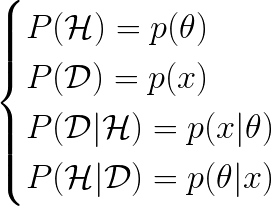
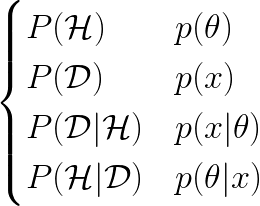
more on beta, and uniform

diff --git a/docs/beta.md b/docs/beta.md
@@ -16,6 +16,8 @@
     * Suppose last season a player had 80 hits and 220 outs for a total of 300 at-bats
     * The batting average of this player is a [beta distribution](http://varianceexplained.org/statistics/beta_distribution_and_baseball/) *beta(80,220)*
 
+### The Beta Distribution and its measures
+
 * **Beta Distribution** - beta(a, b) 2-parameter distribution with range [0,1]
   > ![Beta distribution](./img/56786ea0-b970-49d0-9a4a-b5fc2c891c13.png)<!--
     {f(\theta) = \frac{(a+b-1)!}{(a-1)!(b-1)!}\theta^{a-1}(1-\theta)^{b-1}}
@@ -25,14 +27,49 @@
   > ![normalizing constant](./img/c5d1c8a8-d6a1-4629-ac87-0321d01de1f6.png)<!--
     {c = \frac{(a+b-1)!}{(a-1)!(b-1)!}, c\theta^{a-1}(1-\theta)^{b-1}}
     -->
-* Beta mean
-  > ![beta mean](./img/cc95317e-c7b9-4418-8e3b-63d6d0d53000.png)<!--
-    {E(X) = \mu = \frac{\alpha}{\alpha + \beta}}
+* Beta Mean: [Expected Value](http://pj.freefaculty.org/guides/stat/Distributions/DistributionWriteups/Beta/Beta.pdf)
+  > ![beta mean](./img/5d6b37fc-580a-4a9f-a792-efdef29d3811.png)<!--
+    E(\theta) = \mu = \frac{a}{a+b}
     -->
+* Variance
+  > ![beta variance](./img/e02cd9d5-1f08-47fa-aaf7-df630154d91f.png)<!--
+    \sigma^2  = \frac{a\cdot b}{(a+b)^2(a + b + 1)}
+    -->
+* Mode: aka what is peak of the curve?
+  > ![beta mode](./img/f2b2fc98-70aa-45dc-8932-4481bb377b43.png)<!--
+    \gamma  = \frac{a-1}{a+b-2}
+    -->
+* Solve for <em>&alpha;</em>
+  > ![beta alpha](./img/592ddcea-1109-49a2-9f16-69c482c3a74e.png)<!--
+    {\alpha = \left(\frac{1-\mu}{\sigma^2} - \frac{1}{\mu} \right) \mu^2}
+    -->
+* Solve for <em>&beta;</em>
+  > ![beta beta](./img/784e6d37-cf87-45bf-a187-2d859b7041ac.png)<!--
+    {\beta = \alpha\left( \frac{1}{\mu} - 1 \right)}
+    -->
+
+#### A note about standard deviation of beta
+
+* Recall the standard deviation of a uniform distribution
+  > ![uniform standard deviation](./img/589ca684-1b99-4c60-a24f-97747494db3e.png)<!--
+    \sigma = \frac{b-a}{\sqrt{12}}
+    -->
+* In a beta distribiton the hypothesis <em>&theta;</em> is between 0 and 1. Therefore, a uniform prior is:
+  > ![uniform prior standard deviation](./img/589ca684-1b99-4c60-a24f-97747494db3e.png)<!--
+    \sigma = \frac{1 - 0}{\sqrt{12}} = 0.28868
+    -->
+* Therefore, (while possible) a beta distribution should not have a standard deviation greater than 0.28868 because a uniform prior has no beliefs
+
+### Example: coin flips
+
 * What is the probability of getting 8 heads and 4 tails from a coin flip?
   * n = 8 + 4 = 12
   * This is a binomial distribution
-  > ![Binomial Distribution](./img/ee2f4eba-449d-4790-bdbf-9d53da126aa6.png)
+  > ![Binomial Distribution](./img/ee2f4eba-449d-4790-bdbf-9d53da126aa6.png)<!--
+    {P(X = k) =
+    \begin{pmatrix}n \\k \end{pmatrix}p^{k}(1-p)^{n-k} =
+    \big({\frac{n!}{k!(n - k)!}}\big)p^{k}(1-p)^{n-k}}
+    }
   * The posterior pdf for a binomial distribution is also a binomial distribution since we are still dealing with bernoulli trials
   * If we solve for the posterior with *&theta;* from 0 to 1, the answer must be 1 - that is the normalizing constant
   > ![Beta Posterior](./img/c7b2de3b-bc90-46df-a92e-678e4a4fc2c4.png)
@@ -117,12 +154,6 @@
   > ![c3](./img/b2e3b028-aa45-465e-840c-be212c0256d8.png)<!--
   c_3 = \frac{(a+b+N-1)!}{(a+x-1)!(b+N-x-1)!} -->
 
-* [Expected Value](http://pj.freefaculty.org/guides/stat/Distributions/DistributionWriteups/Beta/Beta.pdf)
-  > ![beta mean](./img/5d6b37fc-580a-4a9f-a792-efdef29d3811.png)
-* Variance
-  > ![beta variance](./img/e02cd9d5-1f08-47fa-aaf7-df630154d91f.png)
-* Mode peak of the curve
-  > ![beta mode](./img/f2b2fc98-70aa-45dc-8932-4481bb377b43.png)
   * notice that the peak of the curve approaches the expected value as the hyperparamters get larger
 
 ### Conjuate Priors
@@ -147,9 +178,6 @@
     * beta distribution: ``
     * normalizing constant: `{c = \frac{(a+b-1)!}{(a-1)!(b-1)!}, c\theta^{a-1}(1-\theta)^{b-1}}`
     * beta posterior: `c_2\int_0^1 \theta^{a-1}(1-\theta)^{b-1}d\theta`
-    * beta mean: `E(\theta) = \mu = \frac{a}{a+b}`
-    * beta variance: `\sigma^2  = \frac{a\cdot b}{(a+b)^2(a + b + 1)}`
-    * beta mode: `\gamma  = \frac{a-1}{a+b-2}`
 * [Beta Distributions](https://ocw.mit.edu/courses/mathematics/18-05-introduction-to-probability-and-statistics-spring-2014/readings/MIT18_05S14_Reading14a.pdf)
 * [Beta Distribution](http://pj.freefaculty.org/guides/stat/Distributions/DistributionWriteups/Beta/Beta.pdf)
 * [Understanding the beta distribution (using baseball statistics)](http://varianceexplained.org/statistics/beta_distribution_and_baseball/)

diff --git a/docs/bernoulli-trials.md b/docs/bernoulli-trials.md
@@ -11,14 +11,20 @@ An experiment that only has two possible results - *success* and *failure* - is 
   > ![Success Probability Function](./img/9f2cb1c2-bb2a-4ac1-8089-7996f6ab8c94.png)
   * The probability of failure *1 - p* is sometimes called *q*
 * Cumulative Distribution Function:
-    > ![Distribution Function](./img/78111350-ec3e-46c6-9fd3-a44cb923da9f.png)
+    > ![Distribution Function](./img/78111350-ec3e-46c6-9fd3-a44cb923da9f.png)<!--
+      F(x) =\begin{cases}0 & x < 0\\1 - p & 0  \leq x < 1\\1 & x  \geq 1\end{cases}
+      -->
 * **Binomial Coefficient** - the number of ways of picking *k* unordered outcomes from *n* possibilities, or "*n* choose *k*"
   > ![Binomial Coefficient](./img/f1166446-ab18-4655-93a3-7b8ab9d1bc5e.png)
   * For example, <sub>4</sub>C<sub>2</sub> = 6
   * From a set of 4 numbers {1, 2, 3, 4} choosing 2 unordered numbers  will yield 6 subsets {1,2}, {1,3}, {1,4}, {2,3}, {2,4}, {3,4}
 * **Binomial Distribution** is the model for *n* independent Bernoulli trials with a *p* probability, then `X ~ Bin(n,p)`
   * Therefore *Bin(1,p) = Ber(p)*
-  > ![Binomial Distribution](./img/ee2f4eba-449d-4790-bdbf-9d53da126aa6.png)
+  > ![Binomial Distribution](./img/ee2f4eba-449d-4790-bdbf-9d53da126aa6.png)<!--
+    {P(X = k) =
+    \begin{pmatrix}n \\k \end{pmatrix}p^{k}(1-p)^{n-k} =
+    \big({\frac{n!}{k!(n - k)!}}\big)p^{k}(1-p)^{n-k}}
+    -->
 * **Mean** of a Bernoulli Trial is its probability *&mu; = p*
 * **Expected Value** of a Bernoulli Trial is *E(X) = 0(1-p) + 1(p) = p*
 * **Expected Value** of a Binomial distribution is *E(X) = np*
@@ -75,9 +81,7 @@ An experiment that only has two possible results - *success* and *failure* - is 
   * Bernoulli random variable: `X =\begin{cases}1 & success\\0 & failure\end{cases}`
   * Failure Probability: `P(X = 0) = 1 - p`
   * Success Probability: `P(X = 1) = p`
-  * Distribution Function: `F(x) =\begin{cases}0 & x < 0\\1 - p & 0  \leq x < 1\\1 & x  \geq 1\end{cases}`
   * Binomial Coefficient: `_nC_k =  \begin{pmatrix}n \\k \end{pmatrix} = \frac{n!}{k!(n - k)!}`
-  * Binomial Distribution: `P(X = k) = \begin{pmatrix}n \\k \end{pmatrix}p^{k}(1-p)^{n-k}     =   \big({\frac{n!}{k!(n - k)!}}\big)p^{k}(1-p)^{n-k}`
   * Bernoulli Variance: `Var(X) = p(1 - p)`
   * Bernoulli Standard Deviation: `\sigma =  \sqrt{p(1-p)}`
   * Coin flip example: `(\frac{5}{3})0.5^3(1 - 0.5)^{5 - 3} = (\frac{5}{3})0.5^3(0.5)^{2} = 0.05208 \overline{3} `

diff --git a/docs/baseline-primer.md b/docs/baseline-primer.md
@@ -157,7 +157,33 @@ Establish terms so we know we are talking about the same thing when we say a wor
   * Range: *[a, b]*
   * Notation: *U(a, b)*
   * Density: *f(x) = 1/(b - a)* for *a &le; x &le; b*
-  * Distribution: *F(x) = (x - a)/(b - a)* for *a &le; x &le; b*
+  * Density (PDF):
+    > ![uniform density](./img/35bdff7e-46b5-4892-b9e5-387db1468bc1.png)<!--
+      f(x) =\begin{cases}
+      \frac{1}{b-a} & x \in [a, b]
+      \\0 & otherwise
+      \end{cases}
+      -->
+  * Distribution (CDF):
+    > ![uniform distribution](./img/a3763022-a4a3-4d83-adde-5ab0253bd1d0.png)<!--
+      F(x) =\begin{cases}
+      0 & x < a
+      \\\frac{x-a}{b-a} & x \in [a, b]
+      \\1 & x \ge b
+      \end{cases}
+      -->
+  * Mean:
+    > ![uniform mean](./img/afbf4399-4523-4ea9-b251-a126927e3145.png)<!--
+      \mu = \frac{1}{2}(a + b)
+      -->
+  * Variance:
+    > ![uniform variance](./img/42a1b621-535d-470d-8c09-87c6e7ff96e0.png<!--
+      \sigma^2 = \frac{1}{12}(b-a)^2
+      -->
+  * Standard Deviation:
+    > ![uniform standard deviation](./img/589ca684-1b99-4c60-a24f-97747494db3e.png)<!--
+      \sigma = \frac{b-a}{\sqrt{12}}
+      -->
   * an example of uniform distribution is throwing darts at a dartboard and getting the angle drawn from a vertical line to the center to the dart
 * **Exponential Distribution** - the probability of and outcome gets larger as *x* increases
   * Parameter: *&lambda;*

diff --git a/docs/sampling-size.md b/docs/sampling-size.md
@@ -65,7 +65,9 @@ How many samples from a population do you need to see whether they possess a par
     * Expected Value of Sum of 100 coin flips *E(S)* = 0.5 * 100 = 50
     * *Var(S) = n&sigma;<sup>2</sup>* = 100 * 0.5<sup>2</sup> = 25*
     * Standard Deviation of *S* is square root of its variance: 5
-    > ![55 coin example](./img/e61b6506-ba9c-4133-aff7-f1e82fa0bb7b.png)
+    > ![55 coin example](./img/e61b6506-ba9c-4133-aff7-f1e82fa0bb7b.png)<!--
+      {P(S > 55) = P\left ( \frac{S-50}{5} > \frac{55-50}{5} \right ) \approx P(Z > 1) = 0.16}
+      -->
     * Another way to think of this problem is 55 is 1 standard deviation over the mean. What is the left tail over 1 standard deviation?
 
 ## How big should the sampling size be?
@@ -206,7 +208,6 @@ Suppose the test is stopped after something significant happens.
   * Sample Size: `n = \frac{p(1-p)}{(\frac{ME}{Z_{ \alpha / 2}})^2}`
   * Example 1: `\frac{0.5 * 0.5}{(\frac{0.05}{1.96})^2}  \approx  384`
   * Example 2: `\frac{0.95 * 0.05}{(\frac{0.05}{1.96})^2}  \approx  73`
-  * 55 coin example `P(S > 55) = P\left ( \frac{S-50}{5} > \frac{55-50}{5} \right ) \approx P(Z > 1) = 0.16`
   * margin of error rule of thumb: `ME = 1\pm\sqrt{n}`
   * rule of thumb: `n = \frac{16}{\Delta^{2}}`
   * delta: `\Delta = \frac{\mu_{0} - \mu_{1}}{\sigma} = \frac{\delta}{\sigma}`

diff --git a/docs/bayesian-statistics.md b/docs/bayesian-statistics.md
@@ -211,10 +211,10 @@
 * As usual these are the probabilities we want:
   > ![probabilities1](./img/a45f7547-58a2-4bd7-a0d3-d5007b143668.png)<!--
     {\begin{cases}
-    P(\mathcal{H}) = p(\theta)
-    \\P(\mathcal{D}) = p(x)
-    \\P(\mathcal{D}|\mathcal{H}) = p(x|\theta)
-    \\P(\mathcal{H}|\mathcal{D}) = p(\theta|x)
+    P(\mathcal{H}) & p(\theta)
+    \\P(\mathcal{D}) & p(x)
+    \\P(\mathcal{D}|\mathcal{H}) & p(x|\theta)
+    \\P(\mathcal{H}|\mathcal{D}) & p(\theta|x)
     \end{cases}}
     -->
 * recall continuous pdf - the probability that *X* is in *[c, d]*
